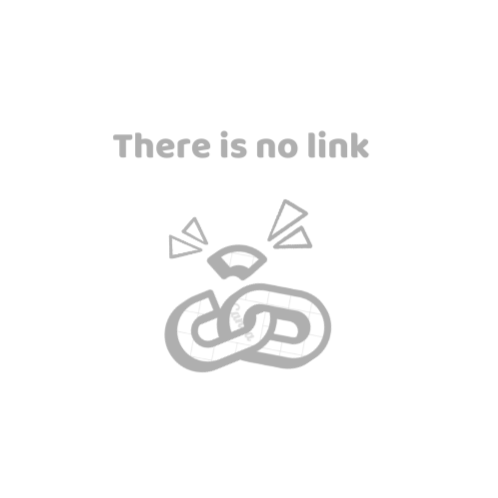
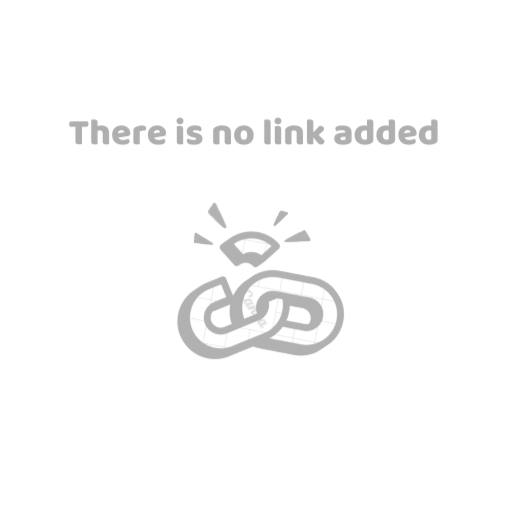
Style and logic: change navigation

Changed region(s): [[0.3313, 0.3916, 0.6627, 0.753], [0.1205, 0.2108, 0.8434, 0.3313]]

diff --git a/frontend/index.php b/frontend/index.php
@@ -45,7 +45,7 @@
                     </div>
                 </li>
                 <li>
-                    <form action="changeNav.php" method="post">
+                    <form action="./../backend/changeNav.php" method="post">
                         <input type="hidden" name="nav" value="main">
                         <button type="submit">
                             <img src="./../assets/icons/home.png" alt="Home icon">
@@ -54,8 +54,8 @@
                     </form>
                 </li>
                 <li>
-                    <form action="changeNav.php" method="post">
-                        <input type="hidden" name="nav" value="heart">
+                    <form action="./../backend/changeNav.php" method="post">
+                        <input type="hidden" name="nav" value="hearts">
                         <button type="submit">
                             <img src="./../assets/icons/heart.png" alt="Heart icon">
                             <span>Hearted</span>
@@ -63,20 +63,11 @@
                     </form>
                 </li>
                 <li>
-                    <form action="changeNav.php" method="post">
+                    <form action="./../backend/changeNav.php" method="post">
                         <input type="hidden" name="nav" value="folders">
                         <button type="submit">
                             <img src="./../assets/icons/folders.png" alt="Folder icon">
                             <span>Folders</span>
-                        </button>
-                    </form>
-                </li>
-                <li>
-                    <form action="changeNav.php" method="post">
-                        <input type="hidden" name="nav" value="lang">
-                        <button type="submit">
-                            <img src="./../assets/icons/langs.png" alt="Language icon">
-                            <span>Languages</span>
                         </button>
                     </form>
                 </li>
@@ -88,14 +79,26 @@
             session_start();
             require_once ('./../backend/classes/Card.php');
 
-            if (isset($_SESSION['links'])) {
-                foreach ($_SESSION['links'] as $linkData) {
-                    $card = new Card($linkData);
-                    $card->renderCard();
+            if(isset($_GET['nav'])){
+                switch ($_GET['nav']) {
+                    case 'main':
+                        require_once('./../backend/pages/Main.php');
+                        break;
+                        case 'hearts':
+                            require_once('./../backend/pages/HeartedLinks.php');
+                            break;
+                        case 'folders':
+                            require_once('./../backend/pages/Folders.php');
+                            break;
+                        default:
+                            require_once('./../backend/pages/Main.php');
+                        break;
                 }
-            } else {
-                echo "<img src='./../assets/images/noLink.png' alt='There is no link'>";
-            }
+
+            }elseif(!isset($_GET['nav'])) {
+                require_once('./../backend/pages/Main.php');
+            } 
+
             ?>
 
         </div>

diff --git a/backend/saveLinks.php b/backend/saveLinks.php
@@ -17,7 +17,7 @@ function newLinkCheck($link) {
     if(isset($_SESSION['links'])){
         foreach ($_SESSION['links'] as $linkData) {
             if($linkData['link'] === $link){
-                header('Location: ./../frontend/index.php?erro=2');
+                header('Location: ./../frontend/index.php?error=2');
                 die();
             }
         }
@@ -25,7 +25,7 @@ function newLinkCheck($link) {
 }
 
 if(!isset($_POST['link'])){
-    header('Location: ./../frontend/index.php?erro=1');
+    header('Location: ./../frontend/index.php?error=1');
 } else {
     $link = $_POST['link'];
     

diff --git a/backend/Pages/HeartedLinks.php b/backend/Pages/HeartedLinks.php
@@ -1,0 +1,16 @@
+<?php
+    if (isset($_SESSION['links'])) {
+        $check = false;
+        foreach ($_SESSION['links'] as $linkData) {
+            if($linkData['heart'] === true){
+                $check = true;
+                $card = new Card($linkData);
+                $card->renderCard();
+            }
+        }
+        if(!$check){
+            echo "<img src='./../assets/images/NoLinkFound.png' alt='No link found'>";
+        }
+    } else {
+        echo "<img src='./../assets/images/NoLink.png' alt='There is no link added'>";
+    }

diff --git a/backend/Pages/Main.php b/backend/Pages/Main.php
@@ -1,0 +1,9 @@
+<?php
+    if (isset($_SESSION['links'])) {
+        foreach ($_SESSION['links'] as $linkData) {
+            $card = new Card($linkData);
+            $card->renderCard();
+        }
+    } else {
+        echo "<img src='./../assets/images/noLink.png' alt='There is no link'>";
+    }   

diff --git a/backend/heart.php b/backend/heart.php
@@ -3,7 +3,7 @@
 session_start();
 
 if(!isset($_POST['link'])){
-    header('Location: ./../frontend/index.php?erro=3');
+    header('Location: ./../frontend/index.php?error=3');
 } else {
     $link = $_POST['link'];
     for ($i=0; $i < count($_SESSION['links']); $i++) { 

diff --git a/backend/changeNav.php b/backend/changeNav.php
@@ -1,0 +1,9 @@
+<?php
+
+if(!isset($_POST['nav'])) {
+    header('Location: ./../frontend/index.php?error=5');
+} else {
+    // Navs: main, hearts, folders, langs
+    $nav = $_POST['nav'];
+    header("Location: ./../frontend/index.php?nav=$nav");
+}

diff --git a/backend/delete.php b/backend/delete.php
@@ -3,7 +3,7 @@
 session_start();
 
 if(!isset($_POST['link'])){
-    header('Location: ./../frontend/index.php?erro=4');
+    header('Location: ./../frontend/index.php?error=4');
 } else {
     $link = $_POST['link'];
 
